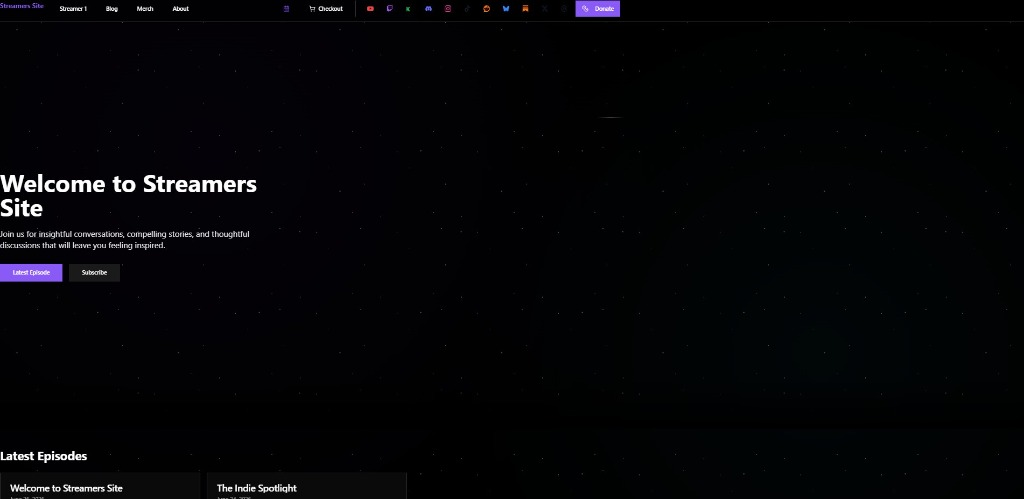
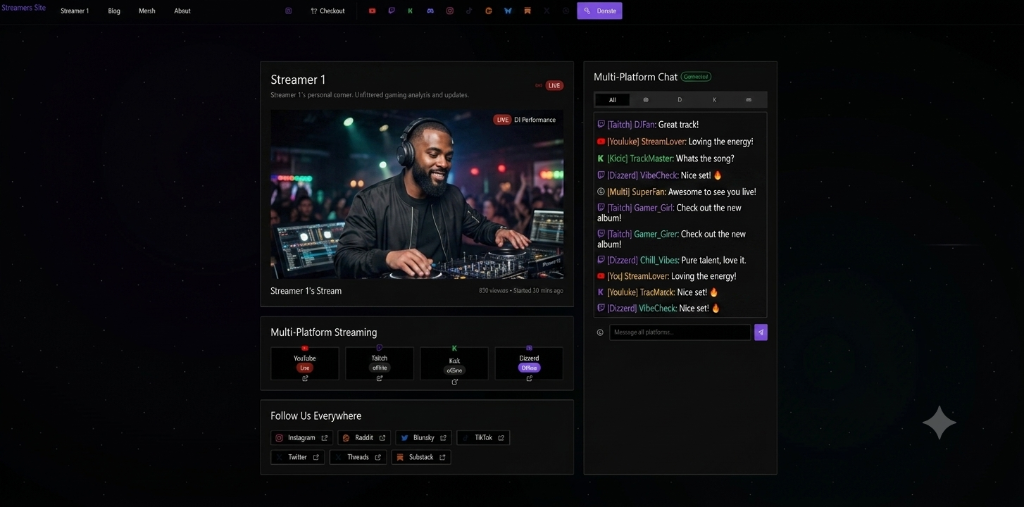
Update portfolio images with real screenshots and remove secondary overlay images

diff --git a/index.html b/index.html
@@ -205,7 +205,6 @@
                 <div class="panel-image-wrapper">
                   <div class="portfolio-double-preview">
                     <img src="assets/portfolio_restaurant_live.jpg" alt="Tony's Sushi Live Restaurant Website" class="panel-img live-preview" id="img-business-live">
-                    <img src="assets/portfolio_restaurant_admin.jpg" alt="Tony's Sushi Custom Admin CMS" class="panel-img admin-preview" id="img-business-admin">
                   </div>
                   <div class="panel-img-badge">
                     <i data-lucide="layout"></i>
@@ -260,8 +259,7 @@
               <div class="panel-image-col">
                 <div class="panel-image-wrapper panel-image-dark">
                   <div class="portfolio-double-preview">
-                    <img src="assets/portfolio_streamer_stream.jpg" alt="Streamers Live Stream Portal" class="panel-img live-preview" id="img-media-live">
-                    <img src="assets/portfolio_streamer_home.jpg" alt="Streamers Site Welcome Hub" class="panel-img admin-preview" id="img-media-home">
+                    <img src="assets/portfolio_streamer_home.jpg" alt="Streamers Site Welcome Hub" class="panel-img live-preview" id="img-media-home">
                   </div>
                   <div class="panel-img-badge">
                     <i data-lucide="tv-2"></i>